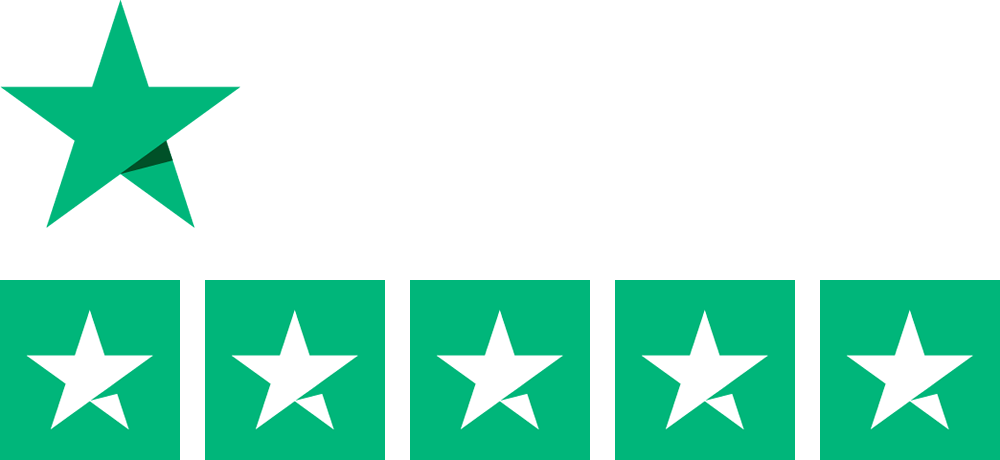
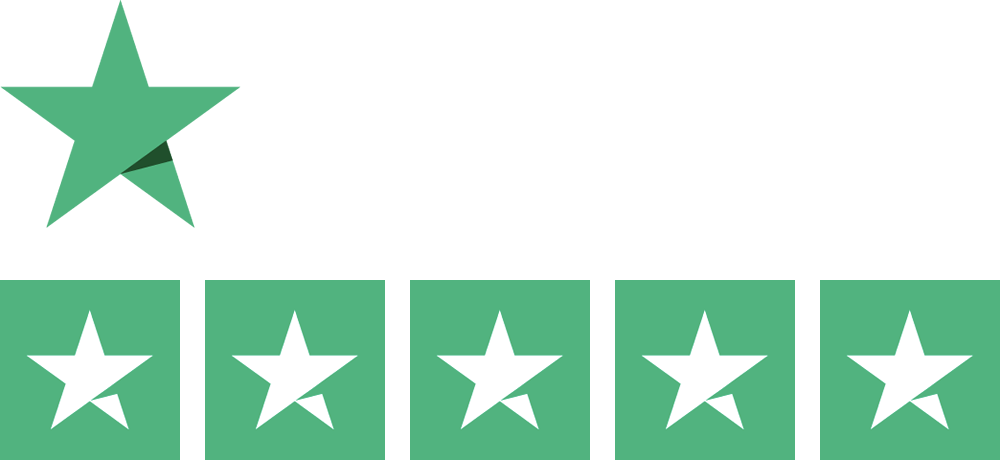
Tilføjet html til Os om og opdateret billeder

diff --git a/omos.html b/omos.html
@@ -1,0 +1,64 @@
+<!DOCTYPE html>
+<html>
+<head>
+    <html lang="da">
+    <meta charset="UTF-8">
+    <meta name="viewport" content="width-device-width, initial-scale=1.0">
+    <meta name="description" content="*Beskrivelse af siden*">
+    <meta name="keywords" content="*Keywords*">
+    <title>Om os</title>
+    <link rel="stylesheet" href="style.css">
+    <link rel="icon" type="image/png" href="/images/sort-logo.png">
+    <link rel="apple-touch-icon" type="image/png" href="/images/sort-logo.png"/>
+    <style>
+        @import url('https://fonts.googleapis.com/css2?family=Assistant:wght@300&family=Bebas+Neue&display=swap');
+    </style>
+</head>
+<body>
+    <header>
+            <nav class="main-nav">
+                <ul>
+                    <li><a href="https://www.lucasjolibois.com/">Home</a></li>
+                    <li><a href="http://mcbz.dk">Leasing</a></li>
+                    <li><a href="http://bycl.dk/contact.html">Rådgivning</a></li>
+                    <li><a href="http://jakeup.dk">Galleri</a></li>
+                    <li><a href="http://m-mn.dk">Om os</a></li>
+                </ul>
+            </nav>
+    </header>
+    <!--Her ses hvordan jeg opdeler tekst i henholdsvis titel <h1>, brødtekst <p> og opdeling af brødteksten via <br>-->
+        <br>
+    <h1>Hvem er vi?</h1>
+    <p> Hos TargetLeasing leaser vi biler udelukkende til 
+        studerende, hvor vi tilpasser os deres behov. Det 
+        vil sige biler til en overskuelig pris, som kører langt 
+        på literen - uden forudsigelige udgifter.
+        <br>
+        <br>
+        Vi befinder os mange forskellige steder i Danmark,
+        og du kan finde et kort over hvor henne <a><strong>her</strong></a>.
+    </p>
+        <br>
+        <br>   
+    <div class="Bilforhandler">
+        <img src="Images/Bilforhandler.jpg" alt="Bilforhandler" style="width:684px;height:526px;"> 
+    </div>
+        <br>
+        <br>
+    <h1>Samarbejdspartnere</h1>
+    <p> For at det hele kan gå op i en højere enhed, har
+        vi naturligvis flere samarbejdspartnere for at kunne
+        yde den bedste service overfor de studerende. Vi er 
+        i tæt samarbejde med Citroën, landets videregående 
+        uddannelser, diverse forsikringsselskaber og OK. 
+    </p>
+        <br>
+    <footer id="main-footer" class="grid">
+              <ul id="foot">
+                  <li class="trust-foot"><a href="#"><img src="Images/trustpilot.png" alt="Trustpilot"></a></li>
+                  <li id="copy">  Copyright 2020 <br> TargetLeasing</li>
+                  <li id="merde"><a href="#">KONTAKT OS & FAQ</a></li>
+              </ul>
+      </footer>
+    </body>
+</html>
